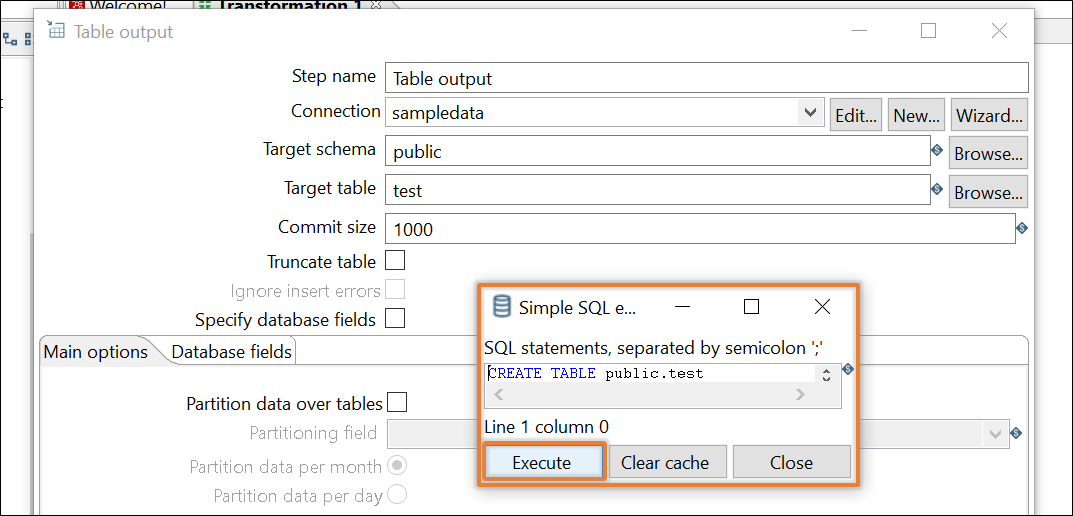
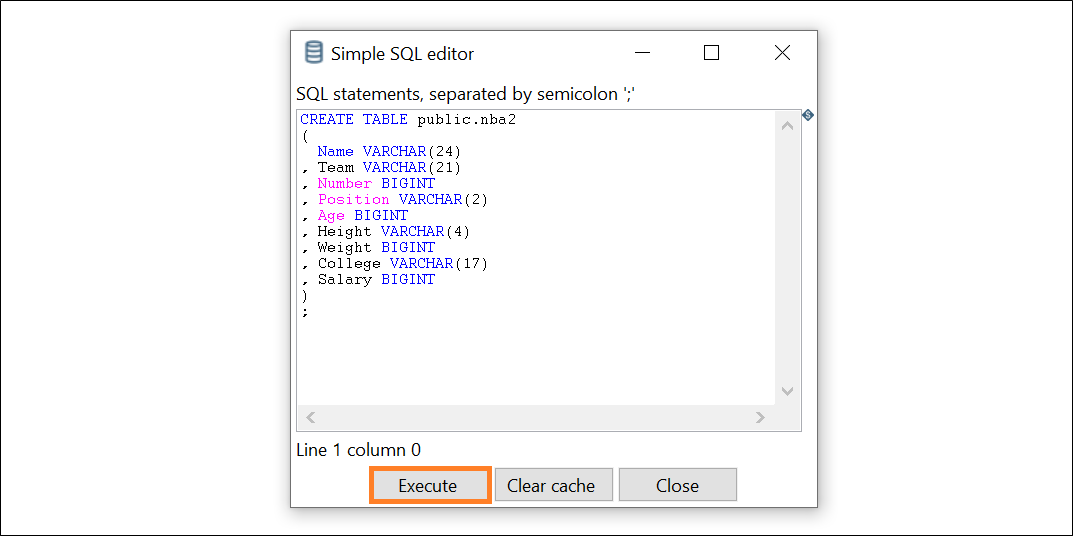
Updated Pentaho Integration Procedure
Updated procedures and screenshots. Waiting for review.

Changed region(s): [[0.0, 0.0, 0.9842, 1.0], [0.6459, 0.093, 0.6766, 0.124]]

diff --git a/guides/third_party_tools/pentaho_data_integration.rst b/guides/third_party_tools/pentaho_data_integration.rst
@@ -5,50 +5,54 @@
 Connecting to SQream Using Pentaho Data Integration
 *************************
 
+.. _top:
+
 Overview
 =========
-This document is a viability report on **Pentaho Data Integration (PDI)** as an ETL tool for Big Data and its compatibility with SQreamDB. It provides documentation for stakeholders using SQreamDB. PDI is part of Hitachi's Lumada portfolio.
+This document is a Quick Start Guide that describes how to install Pentaho, create a transformation, and define your output.
 
 It includes the following:
 
-* :ref:`A Quick Start guide <quickstart_guide>`
-* :ref:`Information about supported SQream drivers <supported_sqream_drivers>`
-* :ref:`Information about supported data sources <supported_data_sources>`
-* :ref:`Information about supported tools and operating system versions <supported_tool_os_versions>`
-* :ref:`A description of known issues <known_issues>`
-* :ref:`Related links <related_links>`
-* :ref:`Download links <download_links>`
+* :ref:`Installing Pentaho <install_pentaho>`
+* :ref:`Installing and setting up the JDBC driver <install_set_up_jdbc_driver>`
+* :ref:`Creating a transformation <create_transformation>`
+* :ref:`Defining your output <define_output>`
+* :ref:`Importing your data <import_data>`
 
-.. _quickstart_guide:
 
-Quick Start Guide
------------------
-This Quick Start Guide describes how to start using PDI.
-
-This tutorial describes how to install Pentaho Data Integration, part of Hitachi’s Lumada portfolio, on your Microsoft Windows computer and to start the app.
+.. _install_pentaho:
 
 Installing Pentaho
 ~~~~~~~~~~~~~~~~~
 To install PDI, see the `Pentaho Community Edition (CE) Installation Guide <https://www.hitachivantara.com/en-us/pdf/white-paper/pentaho-community-edition-installation-guide-for-windows-whitepaper.pdf>`_.
 
-The Pentaho Community Edition (CE) Installation Guide includes instructions for the following:
+The **Pentaho Community Edition (CE) Installation Guide** describes how to do the following:
 
 * Downloading the PDI software.
 * Installing the **JRE (Java Runtime Environment)** and **JDK (Java Development Kit)**.
 * Setting up the JRE and JDK environment variables for PDI.
 
+:ref:`Back to Overview <top>`
+
+.. _install_set_up_jdbc_driver:
+
 Installing and Setting Up the JDBC Driver
 ~~~~~~~~~~~~~~~~~
-After installing Pentaho you must install and set up the JDBC driver.
-
-This section explains how to set up the JDBC driver using Pentaho. These instructions use Spoon, the graphical transformation and job designer associated with the PDI suite. It is also known as the Kettle project.
+After installing Pentaho you must install and set up the JDBC driver. This section explains how to set up the JDBC driver using Pentaho. These instructions use Spoon, the graphical transformation and job designer associated with the PDI suite.
 
 You can install the driver by copying and pasting the SQream JDBC .jar file into your **<directory>/design-tools/data-integration/lib** directory. 
 
 **NOTE:** Contact your SQream license account manager for the JDBC .jar file.
 
+:ref:`Back to Overview <top>`
+
+.. _create_transformation:
+
 Creating a Transformation
 ~~~~~~~~~~~~~~~~~~
+
+After installing Pentaho you can create a transformation.
+
 **To create a transformation:**
 
 1. When the installation is complete, do one of the following:
@@ -81,35 +85,35 @@ A new transformation tab is created.
 
 .. image:: /_static/images/third_party_connectors/pentaho/pentaho_2.png
 
-3. In the **Design** tab, click **Input** to show its file contents.
+4. In the **Design** tab, click **Input** to show its file contents.
 
 .. image:: /_static/images/third_party_connectors/pentaho/pentaho_3.png
 
-4. Drag and drop the **CSV file input** item to the new transformation tab that you created.
+5. Drag and drop the **CSV file input** item to the new transformation tab that you created.
 
 .. image:: /_static/images/third_party_connectors/pentaho/pentaho_4.png
 
-5. Double-click **CSV file input**. The **CSV file input** panel is displayed.
+6. Double-click **CSV file input**. The **CSV file input** panel is displayed.
 
 .. image:: /_static/images/third_party_connectors/pentaho/pentaho_5.png
 
-6. In the **Step name** field, type a name.
+7. In the **Step name** field, type a name.
 
 .. image:: /_static/images/third_party_connectors/pentaho/pentaho_6.png
 
-7. To the right of the **Filename** field, click **Browse**.
+8. To the right of the **Filename** field, click **Browse**.
 
 .. image:: /_static/images/third_party_connectors/pentaho/pentaho_select_file.png
 
-8. Select the file that you want to read from and click **OK**.
+9. Select the file that you want to read from and click **OK**.
 
 .. image:: /_static/images/third_party_connectors/pentaho/add_csv_file.png
 
-9. In the CSV file input window, click **Get Fields**.
+10. In the CSV file input window, click **Get Fields**.
 
 .. image:: /_static/images/third_party_connectors/pentaho/get_fields.png
 
-10. In the **Sample data** window, enter the number of lines you want to sample and click **OK**. The default setting is **100**.
+11. In the **Sample data** window, enter the number of lines you want to sample and click **OK**. The default setting is **100**.
 
 .. image:: /_static/images/third_party_connectors/pentaho/number_of_lines_to_sample.png
 
@@ -117,22 +121,27 @@ The tool reads the file and suggests the field name and type.
 
 .. image:: /_static/images/third_party_connectors/pentaho/suggested_field_name_and_type.png
 
-11. In the CSV file input window, click **Preview**.
+12. In the CSV file input window, click **Preview**.
 
 .. image:: /_static/images/third_party_connectors/pentaho/preview.png
 
-12. In the **Preview size** window, enter the number of rows you want to preview and click **OK**. The default setting is **1000**.
+13. In the **Preview size** window, enter the number of rows you want to preview and click **OK**. The default setting is **1000**.
 
 .. image:: /_static/images/third_party_connectors/pentaho/number_of_rows_to_preview.png
 
-13. Verify that the preview data is correct and click **Close**.
+14. Verify that the preview data is correct and click **Close**.
 
 .. image:: /_static/images/third_party_connectors/pentaho/examine.png
 
-14. Click **OK** in the **CSV file input** window.
+15. Click **OK** in the **CSV file input** window.
+
+:ref:`Back to Overview <top>`
+
+.. _define_output:
 
 Defining Your Output
 -----------------
+After creating your transformation you must define your output.
 
 **To define your output:**
 
@@ -199,11 +208,13 @@ The following message is displayed:
 	 
 6. Click **OK** in the window above, in the Database Connection window, and Table Output window.
 
+:ref:`Back to Overview <top>`
+
+.. _import_data:
+
 Importing Data
 -----------------
-**Comment - Importing PDI content from a repository?**
-
-After defining your input you can begin importing data. You can import data when you need to back up or restore content in your solution repository. Note that backing up content does not include users, permissions, or any schedules that you've created.
+After defining your output you can begin importing your data.
 
 For more information about backing up users, permissions, or schedules, see `Backup and Restore Pentaho Repositories <https://help.pentaho.com/Documentation/7.0/0P0/Managing_the_Pentaho_Repository/Backup_and_Restore_Pentaho_Repositories>`_
 
@@ -235,27 +246,39 @@ For more information about backing up users, permissions, or schedules, see `Bac
    
    3. Release the mouse button. The following options are displayed.
    
+::
+   
    4. Select **Main output of step**.
    
    .. image:: /_static/images/third_party_connectors/pentaho/main_output_of_step.png
+   
+::
 
 5. Double-click **Table output** to open the **Table output** dialog box.
-   
+
+::
+
 6. In the **Target table** field, define a target table name.
 
    .. image:: /_static/images/third_party_connectors/pentaho/target_table_name.png
+
+::
 
 7. Click **SQL** to open the **Simple SQL editor.**
 
    .. image:: /_static/images/third_party_connectors/pentaho/sql_editor.png
    
+::
+   
 8. In the **Simple SQL editor**, click **Execute**.
 
    .. image:: /_static/images/third_party_connectors/pentaho/execute_sql_statements.png
    
-   The system processes and then displays the results of the SQL statements.
+   The system processes and displays the results of the SQL statements.
 
    .. image:: /_static/images/third_party_connectors/pentaho/sql_statement_results.png
+      
+::
 
 9. Close all open dialog boxes.
 
@@ -271,26 +294,8 @@ The **Run Options** dialog box is displayed.
 
    .. image:: /_static/images/third_party_connectors/pentaho/run_options_dialog_box.png
    
-11. Click **Run**.
+11. Click **Run**. The **Execution Results** are displayed.
+
+   .. image:: /_static/images/third_party_connectors/pentaho/execution_results_2.png
    
-13. Save your transformation.
-
-   .. image:: /_static/images/third_party_connectors/pentaho/save_transformation.png
-   
-11. Click **Yes**.
-
-The **Execution Results** are also displayed.
-
-   .. image:: /_static/images/third_party_connectors/pentaho/execution_results.png
-
-
-
-
-
-   The **File has changed** message is displayed.
-   
-   .. image:: /_static/images/third_party_connectors/pentaho/save_transformation_confirmation.png
-
-
-
-
+:ref:`Back to Overview <top>`
